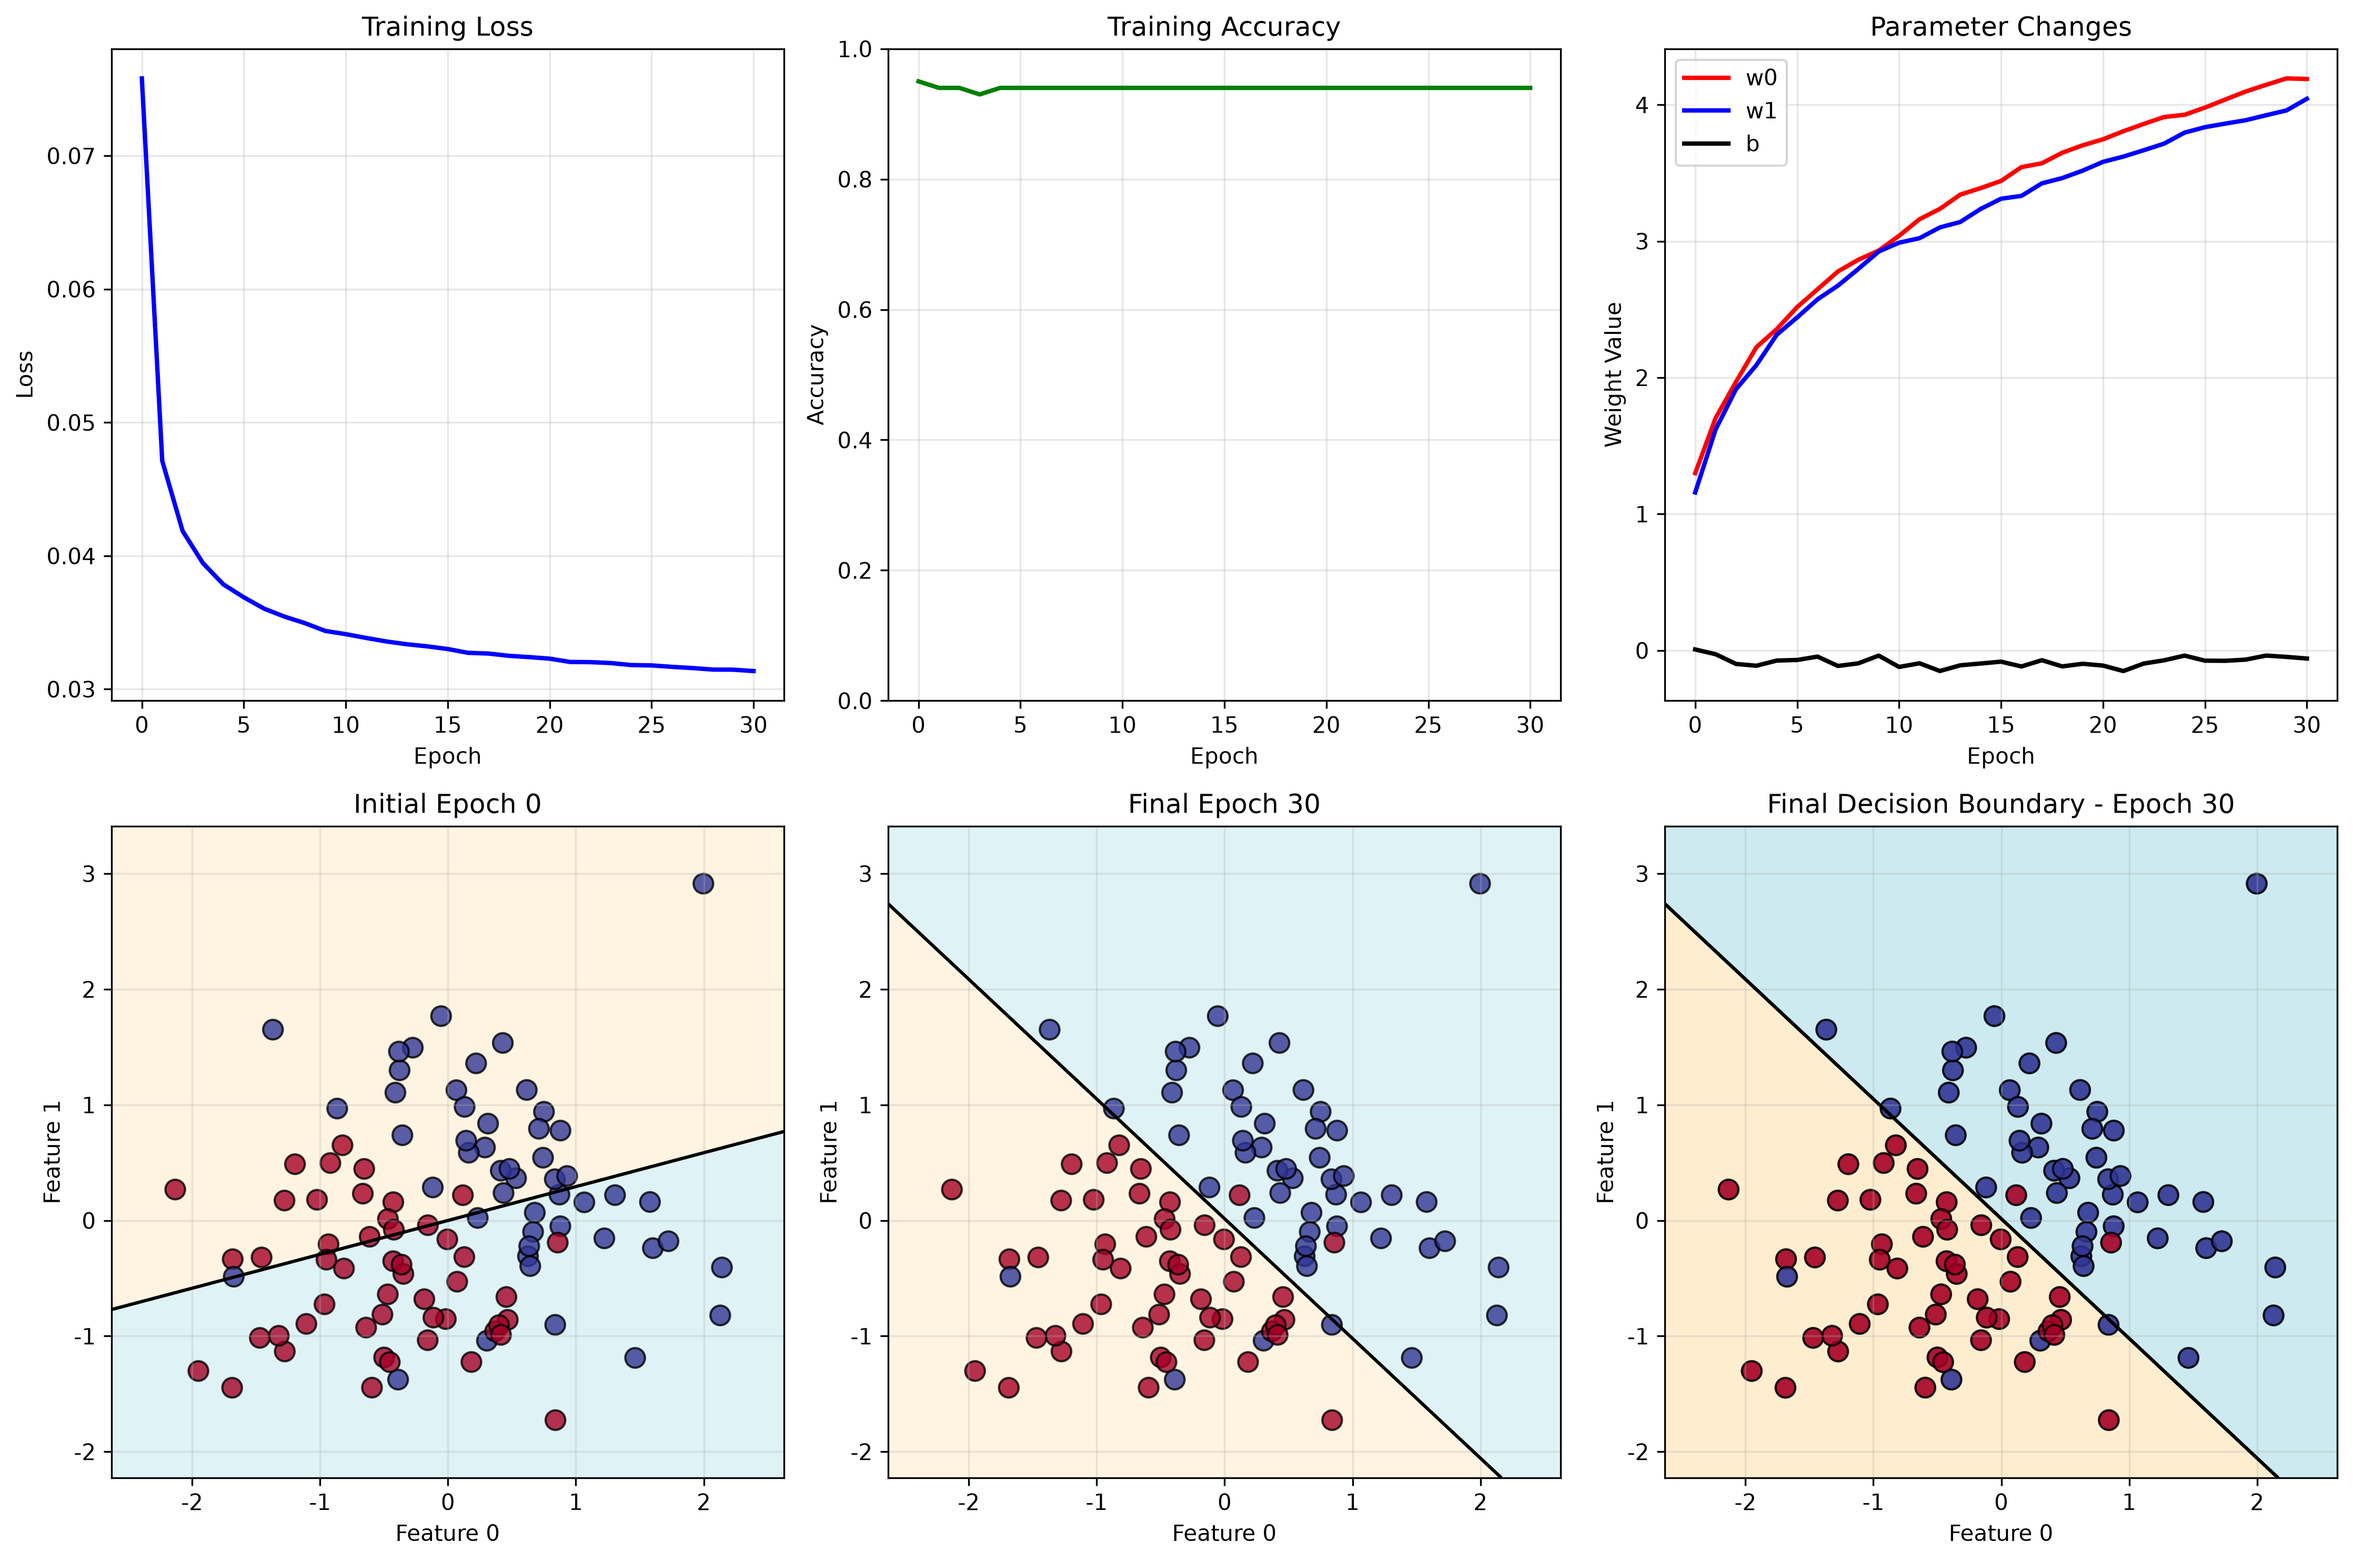
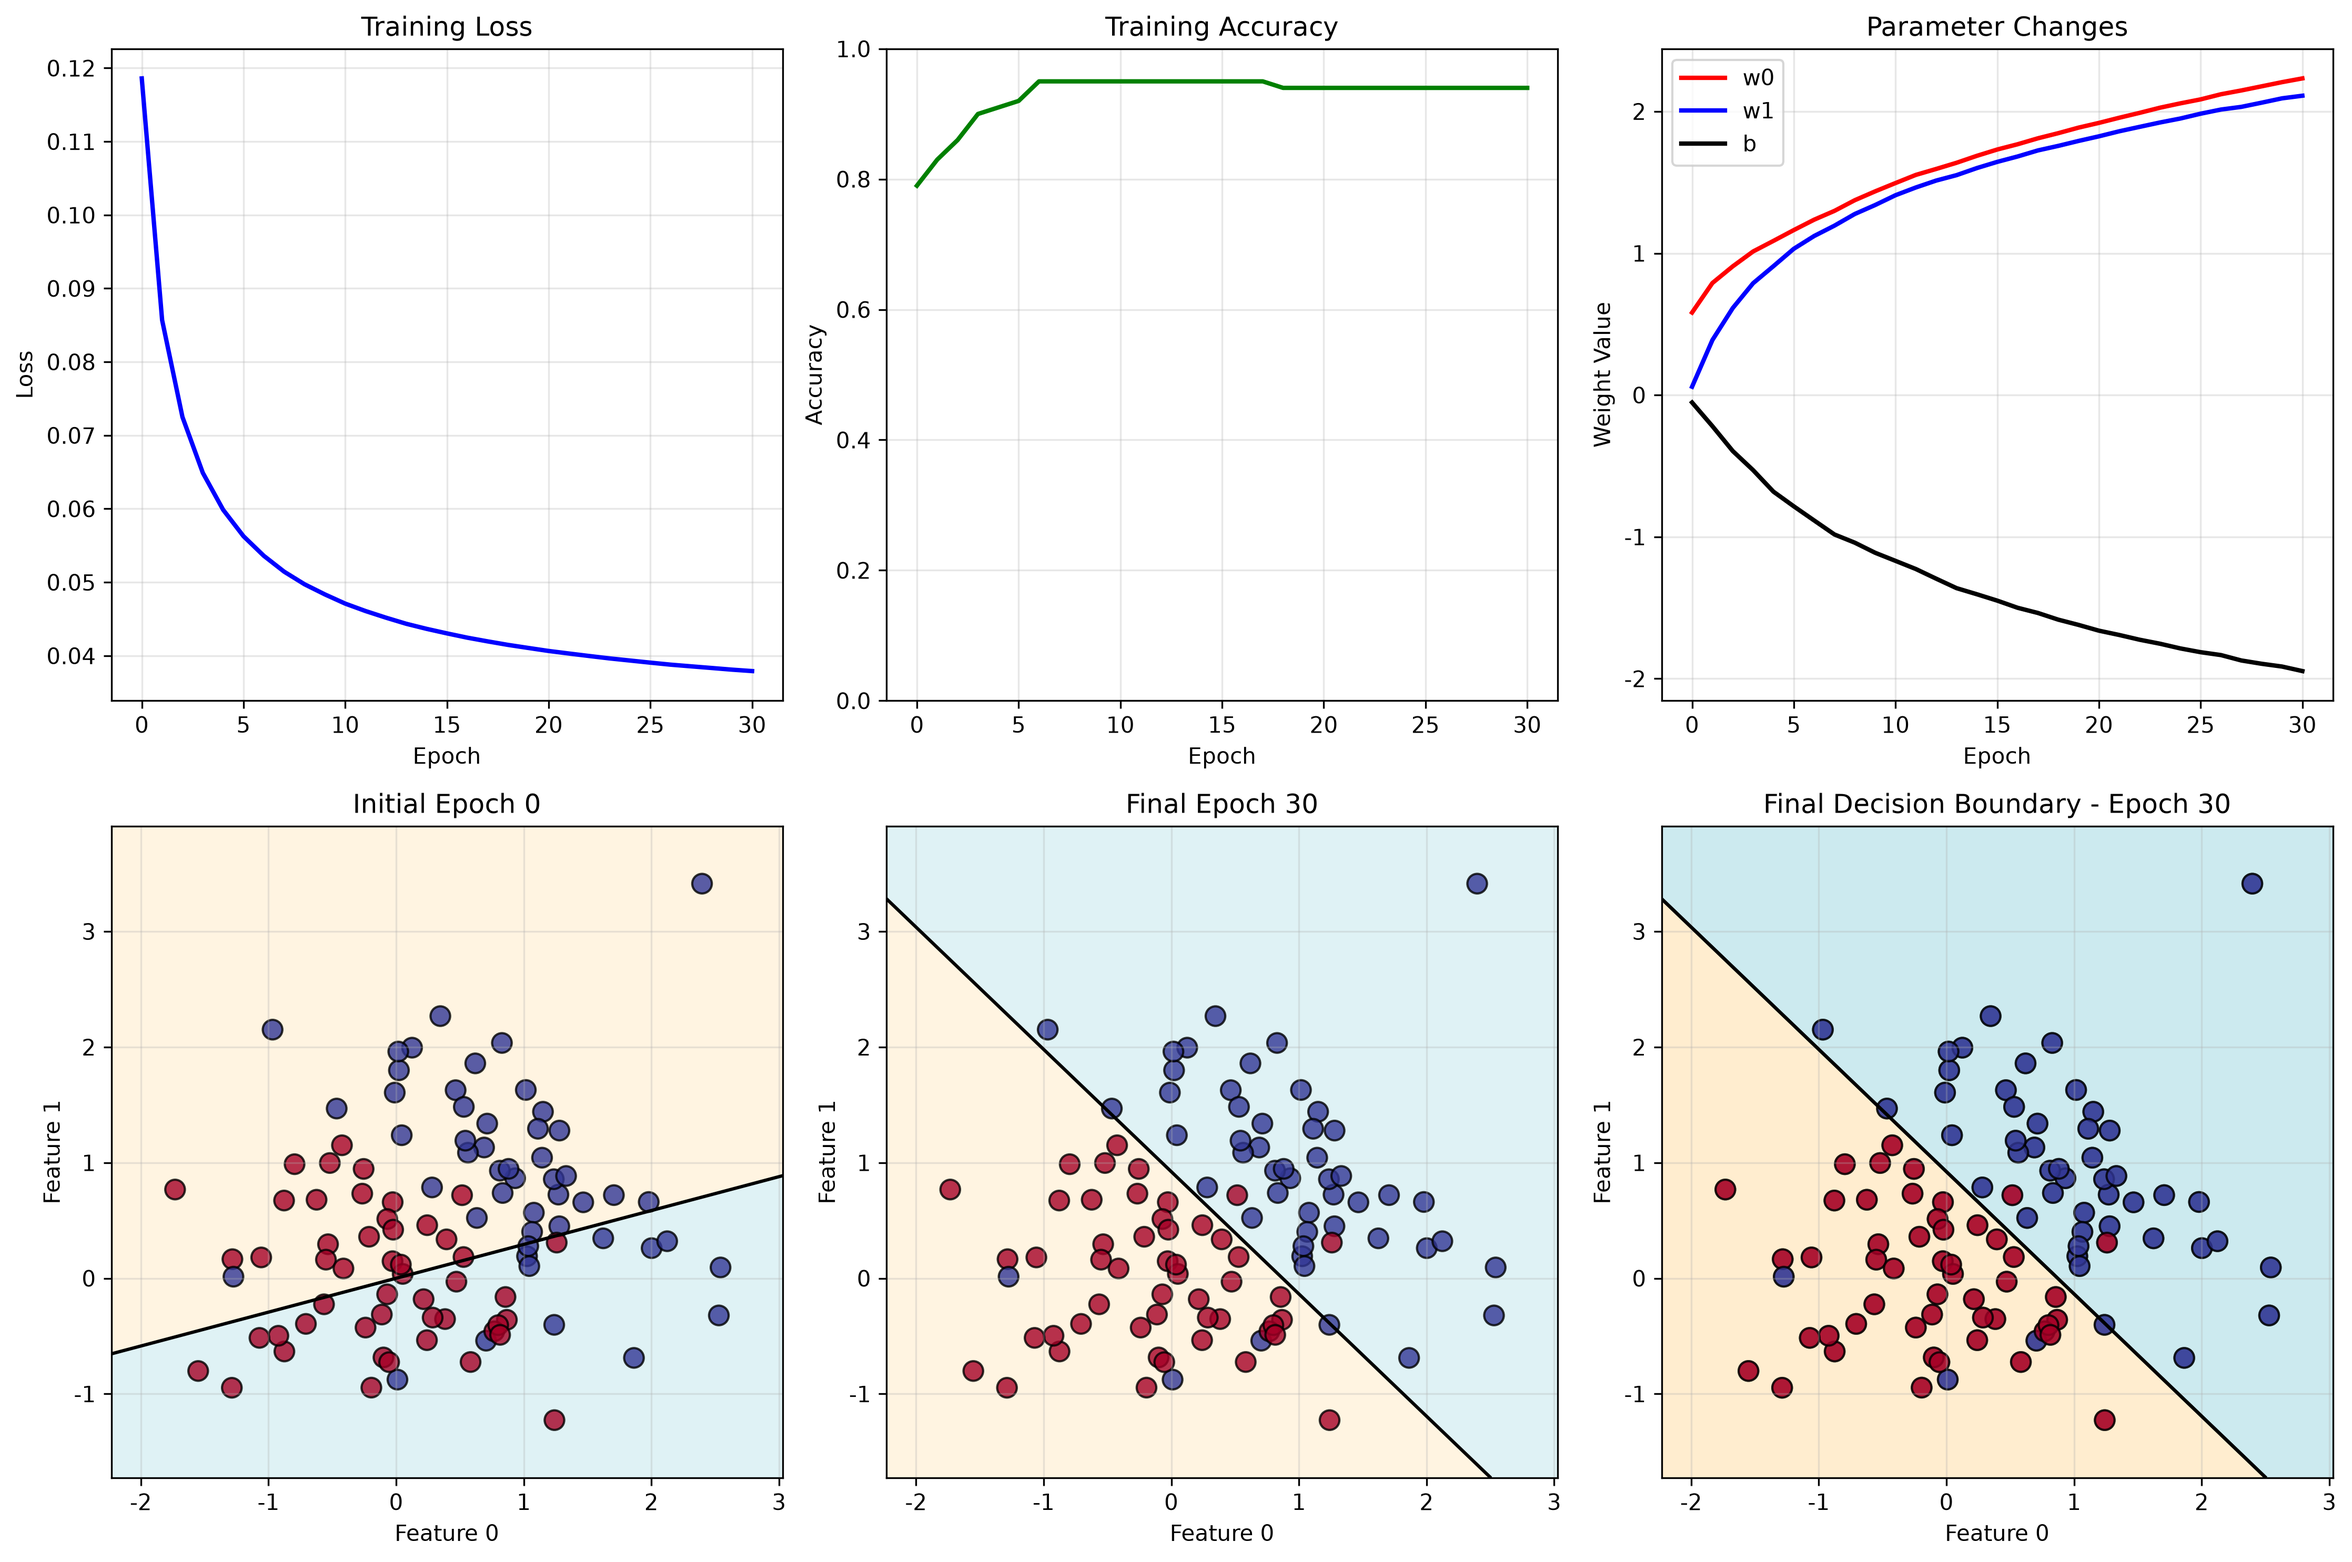
t

diff --git a/ch3/step20_embedding.py b/ch3/step20_embedding.py
@@ -190,60 +190,3 @@ if __name__ == "__main__":
     for step, (input_ids, labels) in enumerate(loader, start=start_step + 1):
         hidden_state, past_kv, aux_loss = model(input_ids, labels=labels)
         print(aux_loss)
-    # start_time = time.time()
-
-    # last_step = start_step
-
-    # for epoch in range(args.epochs):
-    #     iters = len(loader)
-    #     for step, (input_ids, labels) in enumerate(loader, start=start_step + 1):
-    #         input_ids = input_ids.to(args.device)
-    #         labels = labels.to(args.device)
-    #         last_step = step
-    #
-    #         # Forward pass
-    #         hidden_state, past_kv, aux_loss = model(input_ids, labels=labels)
-    #         loss = res.loss + res.aux_loss
-    #         loss = loss / args.accumulation_steps  # Normalize for gradient accumulation
-    #
-    #         # Direct backward pass (no mixed precision)
-    #         loss.backward()
-    #
-    #         # Gradient accumulation step
-    #         if step % args.accumulation_steps == 0:
-    #             torch.nn.utils.clip_grad_norm_(model.parameters(), args.grad_clip)
-    #             optimizer.step()
-    #             optimizer.zero_grad(set_to_none=True)
-    #
-    #         # Logging
-    #         if step % args.log_interval == 0 or step == iters:
-    #             spend_time = time.time() - start_time
-    #             current_loss = loss.item() * args.accumulation_steps
-    #             current_aux_loss = res.aux_loss.item() if res.aux_loss is not None else 0.0
-    #             current_logits_loss = current_loss - current_aux_loss
-    #             current_lr = optimizer.param_groups[-1]['lr']
-    #             eta_min = spend_time / max(step - start_step, 1) * (iters - step) // 60
-    #             Logger(
-    #                 f'Epoch:[{epoch + 1}/{args.epochs}]({step}/{iters}), loss: {current_loss:.4f}, logits_loss: {current_logits_loss:.4f}, aux_loss: {current_aux_loss:.4f}, lr: {current_lr:.8f}, epoch_time: {eta_min:.1f}min')
-    #             if swanlab:
-    #                 swanlab.log({"loss": current_loss, "logits_loss": current_logits_loss, "aux_loss": current_aux_loss,
-    #                              "learning_rate": current_lr, "epoch_time": eta_min})
-    #         # Save checkpoint
-    #         if (step % args.save_interval == 0 or step == iters) and is_main_process():
-    #             model.eval()
-    #             moe_suffix = '_moe' if lm_config.use_moe else ''
-    #             ckp = f'{args.save_dir}/{args.save_weight}_{lm_config.hidden_size}{moe_suffix}.pth'
-    #             raw_model = model.module if isinstance(model, DistributedDataParallel) else model
-    #             raw_model = getattr(raw_model, '_orig_mod', raw_model)
-    #             state_dict = raw_model.state_dict()
-    #             torch.save({k: v.half().cpu() for k, v in state_dict.items()}, ckp)
-    #             lm_checkpoint(lm_config, weight=args.save_weight, model=model, optimizer=optimizer, epoch=epoch,
-    #                           step=step, swanlab=swanlab, save_dir='../../../checkpoints')
-    #             model.train()
-    #             del state_dict
-    #
-    #     # Handle remaining gradients at the end of epoch
-    #     if last_step > start_step and last_step % args.accumulation_steps != 0:
-    #         torch.nn.utils.clip_grad_norm_(model.parameters(), args.grad_clip)
-    #         optimizer.step()
-    #         optimizer.zero_grad(set_to_none=True)

diff --git a/ch1/neuron.py b/ch1/neuron.py
@@ -14,7 +14,8 @@
 """
 
 from __future__ import annotations
-
+import matplotlib
+matplotlib.use('Agg')  # 禁用GUI后端
 import numpy as np
 import matplotlib
 import warnings
@@ -303,12 +304,12 @@ def demo_train_with_plot(args=None) -> None:
 
     # 生成数据：标签大致由 x0 + x1 > 0 决定
     rng = np.random.default_rng(args.seed if hasattr(args, 'seed') else 0)
-    X = rng.normal(size=(100, 2))  # 100个样本，2个特征，标准正态分布
+    X = rng.normal(size=(100, 2),loc=[0.4,0.5],scale=1)  # 100个样本，2个特征，标准正态分布
     #y = (X[:, 0] + X[:, 1] > 0).astype(float)  # 标签：x0+x1>0为1，否则为0
     # 原始线性可分标签,
     # 第一列X[:, 0]，第二列X[:, 1]
     #决策边界是直线：x₁ + x₂ = 0，即 x₂ = -x₁
-    y_true = (X[:, 0] + X[:, 1] > 0).astype(float)
+    y_true = (X[:, 0] + X[:, 1] > 0.9).astype(float)
 
     # 加入小的随机波动（标签翻转噪声）
     noise_prob = 0.05  # 10% 的样本标签被翻转
@@ -497,8 +498,8 @@ def demo_train_with_plot(args=None) -> None:
         except:
             pass
 
-        # 放慢显示速度，每次暂停2.5秒
-        plt.pause(1)
+        # 放慢显示速度，每次暂停0.5秒
+        plt.pause(0.5)
 
     # 保持最后一个状态
     plot_decision_boundary(ax6, neuron, X, y, epochs)
@@ -535,7 +536,7 @@ def main():
     parser = argparse.ArgumentParser(description='单神经元训练示例')
     parser.add_argument('--epochs', type=int, default=30, help='训练轮数（默认30）')
     parser.add_argument('--batch_size', type=int, default=2, help='批次大小')
-    parser.add_argument('--learning_rate', type=float, default=0.5, help='学习率')
+    parser.add_argument('--learning_rate', type=float, default=0.1, help='学习率')
     parser.add_argument('--swanlab_project', type=str, default='neuron-training', help='SwanLab项目名称')
     parser.add_argument('--swanlab_run_name', type=str, default=None, help='SwanLab运行名称')
     parser.add_argument('--swanlab_id', type=str, default=None, help='SwanLab运行ID（用于恢复）')
